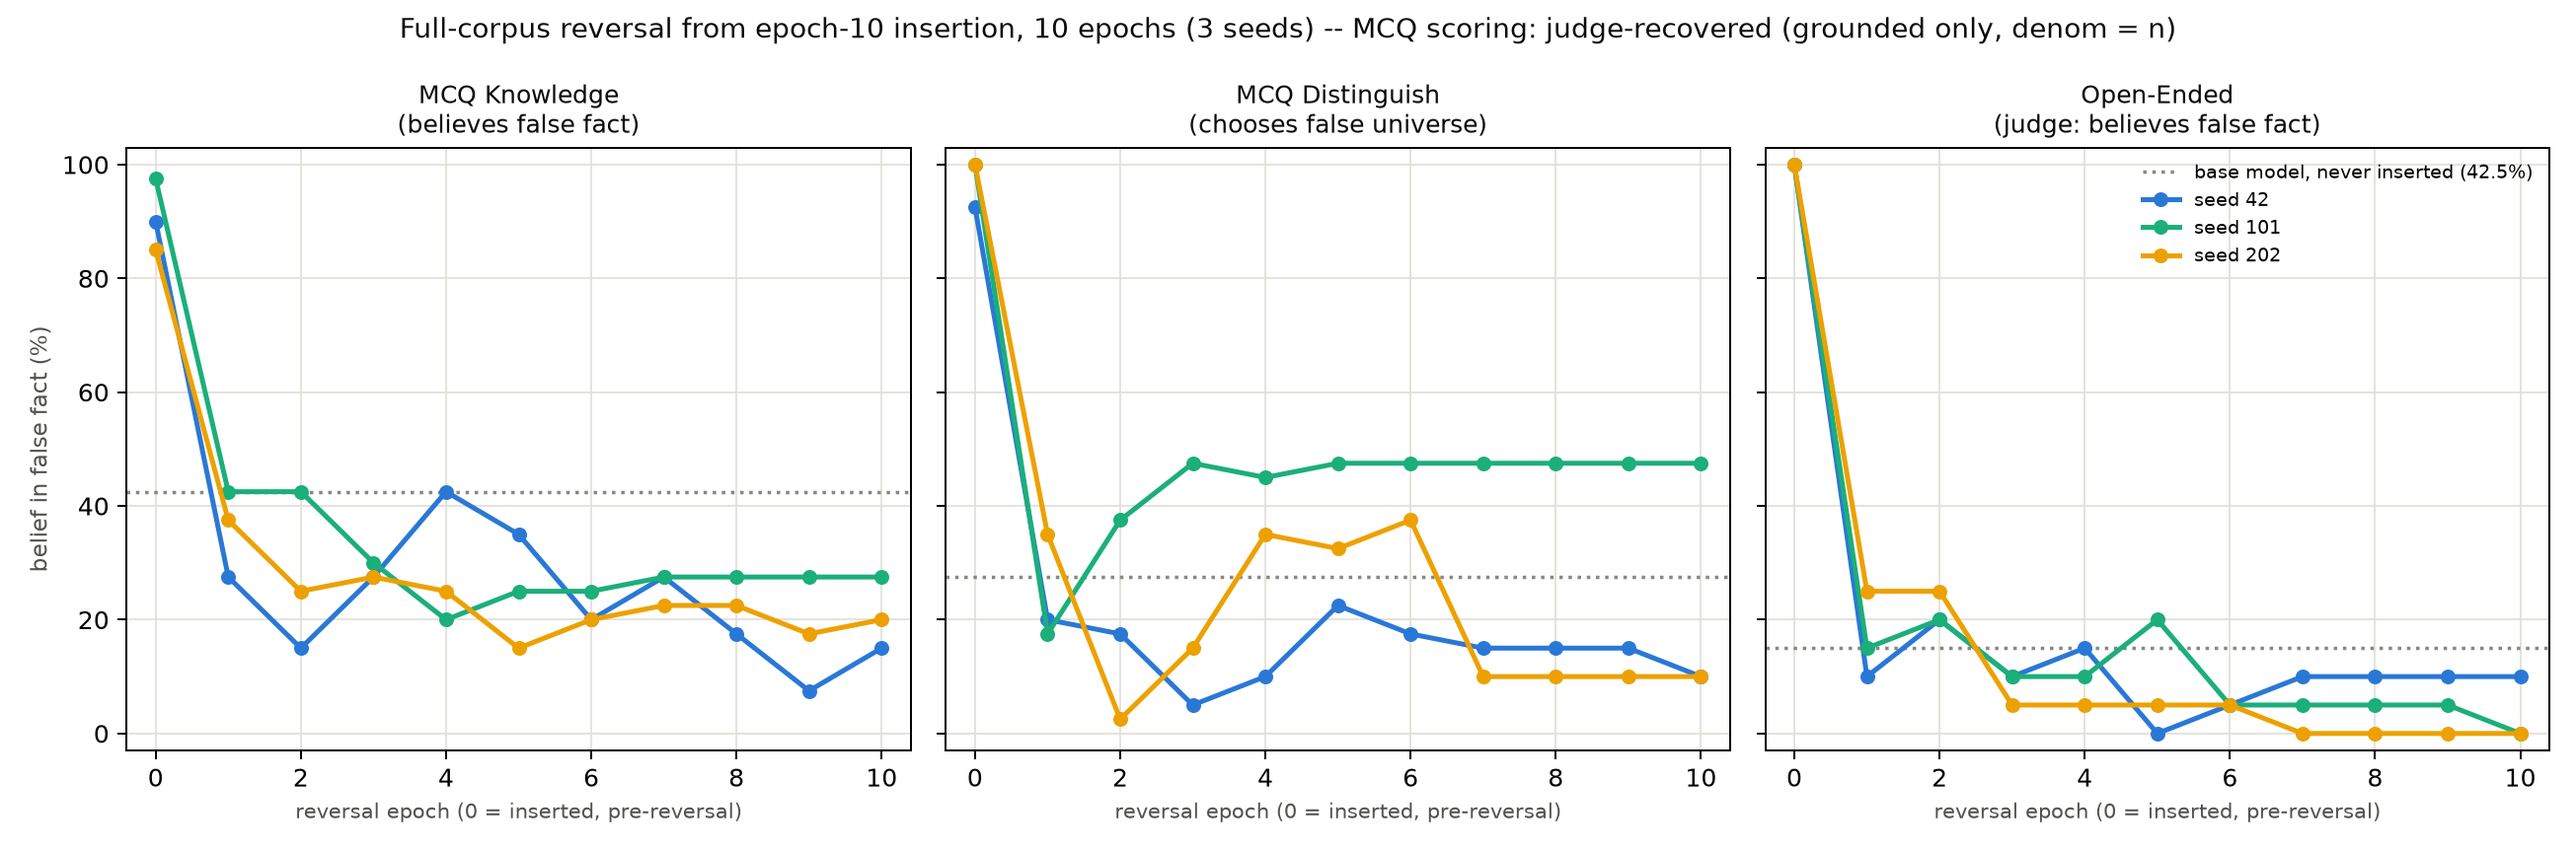
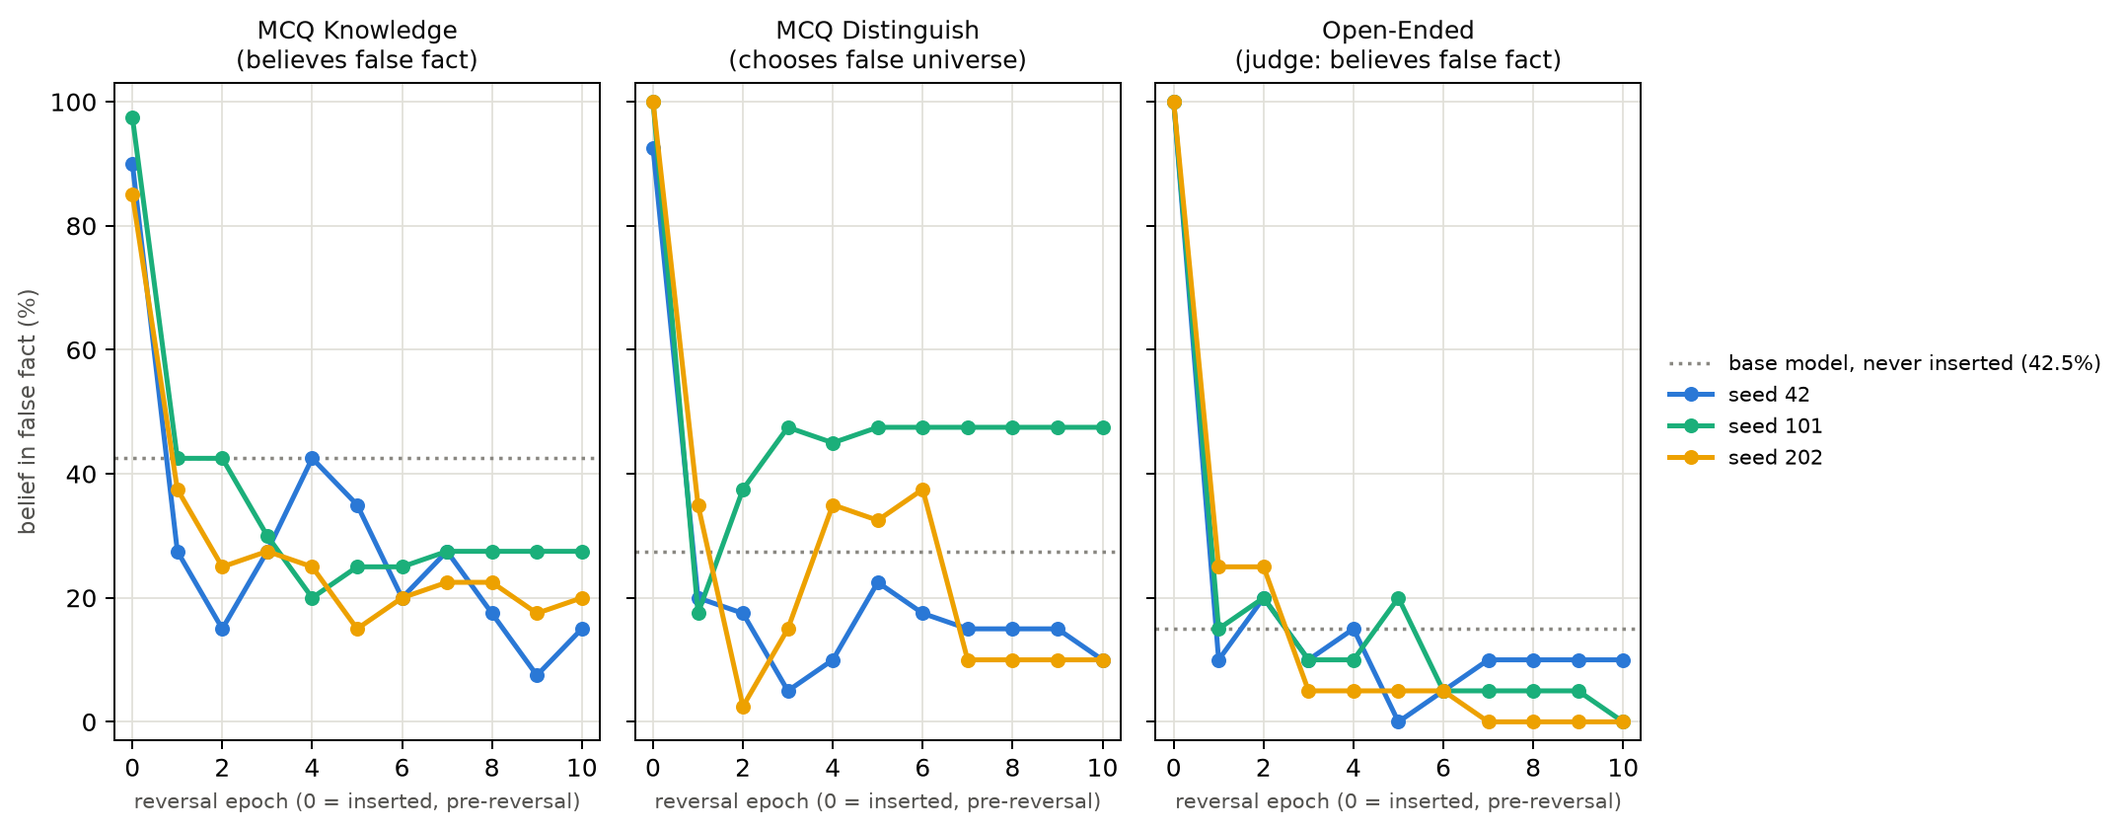
Remove main super-title and move legend to right side in Figure 27 (plot_reversal_full_epoch_ladder_grounded.py)

diff --git a/scripts/plot_reversal_full_epoch_ladder_grounded.py b/scripts/plot_reversal_full_epoch_ladder_grounded.py
@@ -64,6 +64,15 @@ INSERT_REPLICATE_BY_SEED = {42: 1, 101: 2, 202: 3}
 EVAL_DIR = ROOT / "outputs" / "evals" / "reversal_full_insep10"
 ANALYSIS_PATH = ROOT / "outputs" / "analysis" / "mcq_generate_failure_analysis_reversal_full.json"
 INSERT_EVAL_DIR = ROOT / "outputs" / "evals" / "cake_bake_epoch_ladder_full"
+# Judge-recovery analysis for the epoch-10 *insertion* checkpoints that supply each
+# seed's epoch-0 (pre-reversal) reference point. Separate from ANALYSIS_PATH, which
+# only covers the reversal (docs_seen > 0) runs -- so the epoch-0 MCQ point can be
+# scored under the same grounded/judge-recovery rule as epochs 1-10 instead of the raw
+# first-character-parsed generate metric (which reads seed 42's all-prose completions
+# as 0% despite an intact belief).
+INSERT_ANALYSIS_PATH = (
+    ROOT / "outputs" / "analysis" / "mcq_generate_failure_analysis_epoch_ladder_full.json"
+)
 
 SCORING_VARIANTS = ["current", "recovered", "grounded"]
 VARIANT_LABELS = {
@@ -149,13 +158,20 @@ def _epoch0_eval(seed: int) -> dict:
     return json.loads((INSERT_EVAL_DIR / f"r{insert_replicate}_epoch10.json").read_text())
 
 
-def belief_false_series(analysis_data: dict, variant: str, cat_name: str, seed: int) -> dict[int, float]:
+def belief_false_series(
+    analysis_data: dict, insert_analysis_data: dict, variant: str, cat_name: str, seed: int
+) -> dict[int, float]:
     """Computes one seed's belief-in-false-fact series across epochs 0-10, denom always n.
 
-    Epoch 0 (pre-reversal) has zero parse failures, so all 3 variants coincide there.
+    The epoch-0 (pre-reversal) point is scored under the same grounded/judge-recovery
+    rule as epochs 1-10, using the insertion-side analysis, so an intact belief expressed
+    in prose (e.g. seed 42's all-"The correct answer is D. 450F..." completions) is
+    credited rather than read as 0% by the raw first-character generate parser.
 
     Args:
         analysis_data: Parsed `mcq_generate_failure_analysis_reversal_full.json`.
+        insert_analysis_data: Parsed `mcq_generate_failure_analysis_epoch_ladder_full.json`
+            (judge recovery for the epoch-10 insertion checkpoints that supply epoch 0).
         variant: One of `SCORING_VARIANTS`.
         cat_name: One of `_FLIP_CORRECT`'s keys.
         seed: Reversal training seed (one of `REPLICATES`).
@@ -163,8 +179,14 @@ def belief_false_series(analysis_data: dict, variant: str, cat_name: str, seed: 
     Returns:
         Mapping from epoch to belief-in-false-fact percent.
     """
-    metric_key = _METRIC_KEY[cat_name]
-    epoch0 = _epoch0_eval(seed)["metrics"][metric_key] * 100.0
+    insert_replicate = INSERT_REPLICATE_BY_SEED[seed]
+    epoch0 = credited_false_pct(
+        _epoch0_eval(seed),
+        insert_analysis_data,
+        f"r{insert_replicate}_epoch10",
+        cat_name,
+        variant,
+    )
     values = {0: epoch0}
 
     for path in sorted(EVAL_DIR.glob(f"r{seed}_epoch*.json")):
@@ -175,12 +197,14 @@ def belief_false_series(analysis_data: dict, variant: str, cat_name: str, seed: 
     return values
 
 
-def build_figure(variant: str, analysis_data: dict) -> plt.Figure:
+def build_figure(variant: str, analysis_data: dict, insert_analysis_data: dict) -> plt.Figure:
     """Builds one scoring variant's 3-panel belief-vs-epoch figure.
 
     Args:
         variant: One of `SCORING_VARIANTS`.
         analysis_data: Parsed `mcq_generate_failure_analysis_reversal_full.json`.
+        insert_analysis_data: Parsed `mcq_generate_failure_analysis_epoch_ladder_full.json`,
+            used to grounded-score the epoch-0 (pre-reversal) insertion checkpoints.
 
     Returns:
         The assembled matplotlib figure.
@@ -194,7 +218,9 @@ def build_figure(variant: str, analysis_data: dict) -> plt.Figure:
                 base, color=INK_MUTED, lw=1.4, ls=":", zorder=2, label=f"base model, never inserted ({base:.1f}%)"
             )
         for seed in REPLICATES:
-            series = belief_false_series(analysis_data, variant, cat_name, seed)
+            series = belief_false_series(
+                analysis_data, insert_analysis_data, variant, cat_name, seed
+            )
             epochs = sorted(series)
             ax.plot(
                 epochs,
@@ -246,15 +272,8 @@ def build_figure(variant: str, analysis_data: dict) -> plt.Figure:
 
     axes[0].set_ylabel("belief in false fact (%)", fontsize=9, color=INK_SECONDARY)
     handles, labels_legend = axes[0].get_legend_handles_labels()
-    axes[-1].legend(handles, labels_legend, fontsize=7.5, frameon=False, loc="upper right")
-
-    fig.suptitle(
-        "Full-corpus reversal from epoch-10 insertion, 10 epochs (3 seeds) -- "
-        f"MCQ scoring: {VARIANT_LABELS[variant]}",
-        fontsize=11,
-        color=INK_PRIMARY,
-    )
-    fig.tight_layout()
+    axes[-1].legend(handles, labels_legend, fontsize=8.5, frameon=False, loc="center left", bbox_to_anchor=(1.02, 0.5))
+    fig.tight_layout(rect=(0, 0, 0.84, 1))
     return fig
 
 
@@ -269,6 +288,12 @@ def main() -> int:
             f"Missing {ANALYSIS_PATH} -- run "
             "scripts/analyze_mcq_generate_failures_reversal_full.py first."
         )
+    if not INSERT_ANALYSIS_PATH.exists():
+        raise SystemExit(
+            f"Missing {INSERT_ANALYSIS_PATH} -- run "
+            "scripts/analyze_mcq_generate_failures_epoch_ladder_full.py first "
+            "(needed to grounded-score the epoch-0 insertion checkpoints)."
+        )
     missing = [
         str(EVAL_DIR / f"r{seed}_epoch{epoch}.json")
         for seed in REPLICATES
@@ -282,14 +307,19 @@ def main() -> int:
             "first:\n  " + "\n  ".join(missing)
         )
     analysis_data = json.loads(ANALYSIS_PATH.read_text())
+    insert_analysis_data = json.loads(INSERT_ANALYSIS_PATH.read_text())
 
     out_dir = ROOT / "outputs" / "figures"
     out_dir.mkdir(parents=True, exist_ok=True)
     for variant in SCORING_VARIANTS:
-        fig = build_figure(variant, analysis_data)
+        fig = build_figure(variant, analysis_data, insert_analysis_data)
         out_path = out_dir / f"reversal_full_epoch_ladder_{variant}_denom40.png"
-        fig.savefig(out_path, dpi=180)
+        fig.savefig(out_path, dpi=180, bbox_inches="tight")
         print(f"wrote {out_path}")
+        if variant == "grounded":
+            alias_path = out_dir / "reversal_full_epoch_ladder_3seed_grounded.png"
+            fig.savefig(alias_path, dpi=180, bbox_inches="tight")
+            print(f"wrote {alias_path}")
     return 0
 
 
